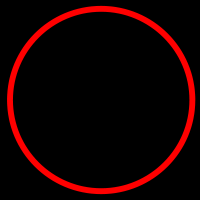
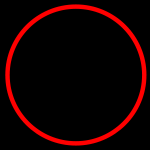
adjusting button size

diff --git a/countdown.py b/countdown.py
@@ -43,7 +43,7 @@ class block:
 		################### FUNCTIONAL BUTTONS ##########################
 		self.buttonImage = TK.PhotoImage(file="button-2.png")
 		self.blankButton = TK.PhotoImage(file="button-blank.png")
-		self.clock = Button(self.topFrame, image=self.buttonImage, font = (None,50), text="000.0", command=self.run, bg = 'black',fg = 'red', compound='center', activebackground='black', activeforeground='red')
+		self.clock = Button(self.topFrame, image=self.buttonImage, font = (None,45), text="000.0", command=self.run, bg = 'black',fg = 'red', compound='center', activebackground='black', activeforeground='red')
 		self.clock.grid(row=1,column=20, columnspan=6, rowspan=6)
 
 
